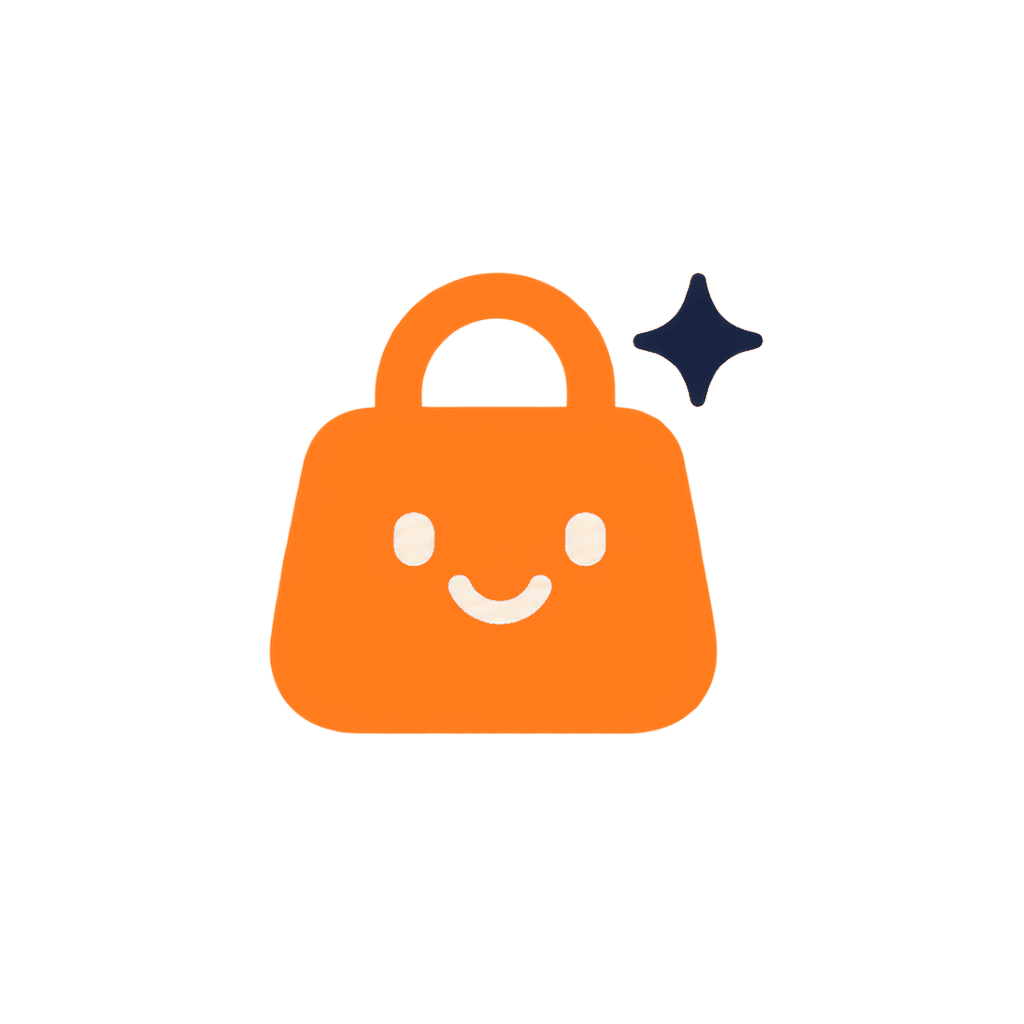
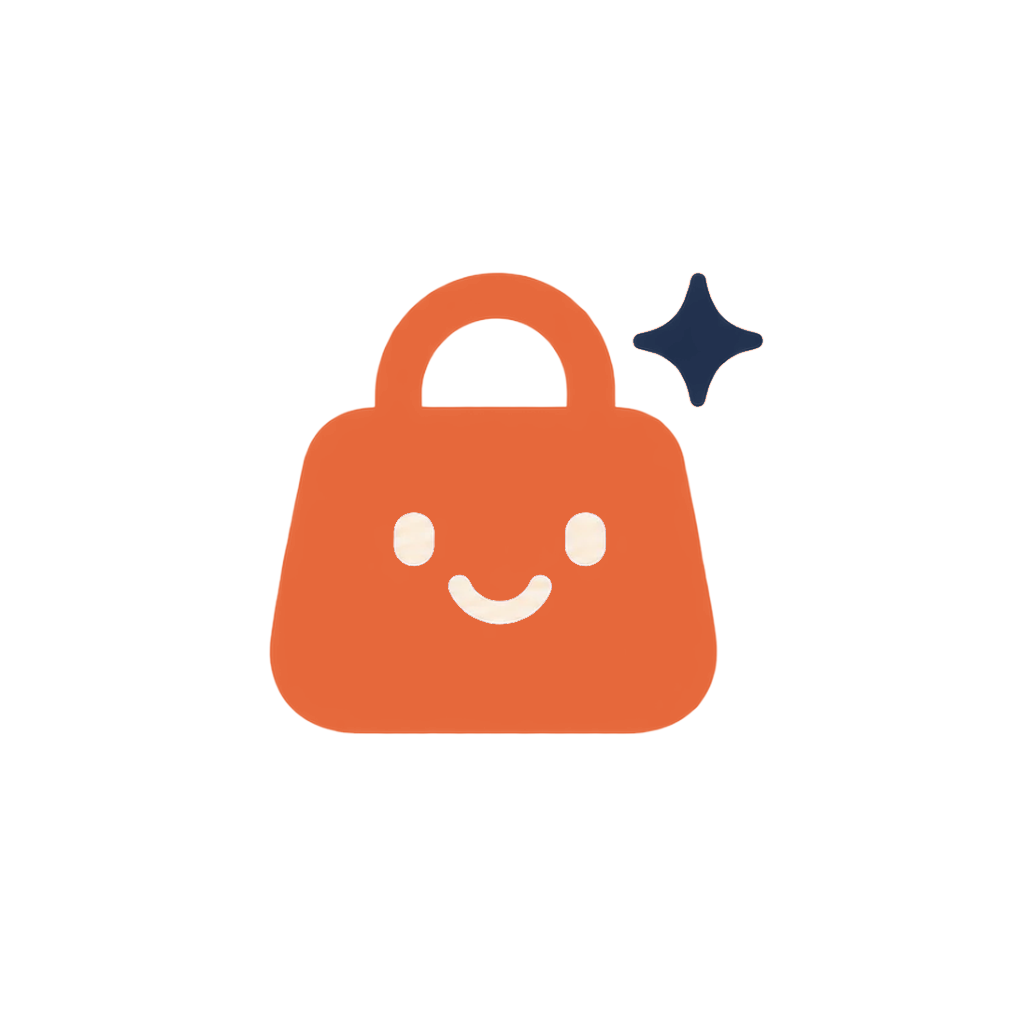
Sunset & Sage palette: terracotta, deep indigo, sage, blush, warm cream
- Buy actions in deep terracotta #BF4F26 with white text (4.8:1); brand terracotta #E66739 for logo/icons
- Deep indigo #1E2E4B text; sage #8AA382 secondary buttons with indigo text (4.9:1); blush panels; cream bg
- Logo, wordmark and app icons recoloured to match

Claude-Session: https://claude.ai/code/session_012wqzAwzB3todXZcczmyirL

Changed region(s): [[0.25, 0.25, 0.7188, 0.7188]]

diff --git a/marketplace-app/src/lib/theme.ts b/marketplace-app/src/lib/theme.ts
@@ -1,37 +1,38 @@
-// Colour system (colour theory, contrast-checked to WCAG AA):
-// - ORANGE is the Shelby brand and the buy colour. Orange reads as energy, warmth and value (the
-//   family of Amazon, Fanta, JBL), and it is the colour shoppers already associate with "buy".
-//   It is used ONLY for the logo and buying actions (Add to cart, Checkout, Pay, Shop now), so the
-//   isolation effect still makes the button the one thing the eye finds. Ink on orange is 6.1:1.
-// - NAVY ink is orange's complement (blue-orange): text, headers, navigation and primary buttons.
-//   Complementary contrast is what makes the orange pop; white on navy is 15.9:1.
-// - Burnt orange is the quiet text highlight (links, selection, progress): 5.2:1 on the background,
-//   where bright orange text would fail (2.6:1).
+// Colour system: "Sunset & Sage" (contrast-checked to WCAG AA).
+// - TERRACOTTA (#E66739) is the brand: logo, icons, badges. Buying actions use a deeper terracotta
+//   (#BF4F26) so white button text passes AA (4.8:1; white on #E66739 is only 3.3:1). Warm orange-red
+//   reads as energy and appetite, and it is used for buying only, so the button is what the eye finds.
+// - DEEP INDIGO (#1E2E4B) is terracotta's complement (blue vs orange): text, headers, primary buttons.
+//   Indigo on cream is 12.7:1.
+// - SAGE (#8AA382) is the calm counterweight (green opposite red on the wheel): secondary actions
+//   (indigo text on sage, 4.9:1) and trust cues (deep sage text #4D6B46, 5.6:1).
+// - SOFT BLUSH (#F6E3E0) for highlighted panels; WARM CREAM (#FAF7F2) background keeps photos the most
+//   saturated thing on screen.
 // - Red only means a real saving or a problem (sale prices, low stock, errors, count badges).
-// - Green only means trust: in stock, free shipping, returns, guarantees, success.
-// - Warm off-white background keeps product photos the most saturated thing on screen.
 export const C = {
-  bg: '#FFF8F1',
+  bg: '#FAF7F2', // warm cream
   surface: '#FFFFFF',
-  ink: '#16213E', // navy: orange's complement
-  ink2: '#4B5270',
-  ink3: '#666C86',
-  line: '#F1E4D6',
-  photo: '#F7EEE5', // product photo backdrop
-  accent: '#B04A00', // burnt orange: links, selection, progress, icons
-  accentSoft: '#FFEEDF',
-  buy: '#FF7A1A', // brand orange, buying actions only
-  buyPressed: '#F26A05',
-  buyInk: '#16213E',
-  buySoft: '#FFF0E2',
+  ink: '#1E2E4B', // deep indigo
+  ink2: '#4A5670',
+  ink3: '#646D85',
+  line: '#EDE6DC',
+  photo: '#F3EEE7', // product photo backdrop
+  accent: '#B34A22', // terracotta text: links, selection, progress, icons (5.0:1 on cream)
+  accentSoft: '#F6E3E0', // soft blush
+  buy: '#BF4F26', // deep terracotta: buying actions only
+  buyPressed: '#A8431F',
+  buyInk: '#FFFFFF',
+  buySoft: '#FBE9E2',
+  brand: '#E66739', // terracotta: logo, icons, badges (not text)
+  sage: '#8AA382', // secondary actions, with indigo text
   sale: '#C8102E', // real discounts, low stock, errors, badges
   saleSoft: '#FDE8EA',
-  good: '#157A4A',
-  goodSoft: '#E7F4EC',
+  good: '#4D6B46', // deep sage: in stock, returns, guarantees, success
+  goodSoft: '#E8EFE5',
   warn: '#8A5A00',
   warnSoft: '#FFF3D1',
-  spark: '#FF7A1A', // logo and mascot accents
-  dark: '#16213E',
+  spark: '#E66739', // logo and mascot accents
+  dark: '#1E2E4B',
 };
 
 export const R = { sm: 8, md: 14, lg: 20, pill: 999 };

diff --git a/marketplace-app/src/app/(tabs)/index.tsx b/marketplace-app/src/app/(tabs)/index.tsx
@@ -73,7 +73,7 @@ export default function Home() {
         ) : showQuiz && (
           <Pressable onPress={() => { track('quiz_entry_tap', { from: 'home' }); router.push({ pathname: '/quiz', params: { from: 'home' } }); }} accessibilityRole="button"
             style={{ margin: S.lg, marginBottom: 0, padding: S.lg, borderRadius: R.lg, backgroundColor: C.ink, flexDirection: 'row', alignItems: 'center', gap: 12 }}>
-            <Ionicons name="sparkles" size={24} color={C.buy} />
+            <Ionicons name="sparkles" size={24} color="#F2A584" />
             <View style={{ flex: 1 }}>
               <Text style={{ color: '#fff', fontWeight: '800', fontSize: 16 }}>Find your match in 30 seconds</Text>
               <Text style={{ color: '#D9DEEA', marginTop: 2 }}>3 quick questions, then picks for your skin, goals or size.</Text>
@@ -96,7 +96,7 @@ export default function Home() {
             const img = products.find(p => p.category === c && p.stock > 0)?.image;
             return (
               <Pressable key={c} onPress={() => { track('home_category', { category: c }); router.push({ pathname: '/search', params: { cat: c } }); }} style={{ alignItems: 'center', width: 70 }} accessibilityRole="button" accessibilityLabel={`Shop ${c}`}>
-                <View style={{ padding: 2.5, borderRadius: 40, borderWidth: 2.5, borderColor: C.buy }}>
+                <View style={{ padding: 2.5, borderRadius: 40, borderWidth: 2.5, borderColor: C.brand }}>
                   <Image source={{ uri: img }} style={{ width: 58, height: 58, borderRadius: 29, backgroundColor: C.photo }} />
                 </View>
                 <Text numberOfLines={1} style={{ fontSize: 11, marginTop: 6, color: C.ink2, fontWeight: '600' }}>{c}</Text>

diff --git a/marketplace-app/src/app/match/[icp].tsx b/marketplace-app/src/app/match/[icp].tsx
@@ -39,7 +39,7 @@ export default function Match() {
       <Header back title="Your match" />
       <ScrollView contentContainerStyle={{ paddingBottom: 40 }}>
         <View style={{ margin: S.lg, padding: S.lg, borderRadius: R.lg, backgroundColor: C.ink }}>
-          <Text style={[T.tiny, { color: C.buy }]}>YOUR MATCH</Text>
+          <Text style={[T.tiny, { color: '#F2A584' }]}>YOUR MATCH</Text>
           <Text style={{ color: '#fff', fontSize: 28, fontWeight: '900', marginTop: 6 }}>{info.title}</Text>
           <Text style={{ color: '#D9DEEA', marginTop: 6, fontSize: 15, lineHeight: 21 }}>{info.line} Here's what fits, best match first.</Text>
         </View>
@@ -47,7 +47,7 @@ export default function Match() {
           <View style={{ marginHorizontal: S.lg, marginBottom: S.lg, padding: S.lg, borderRadius: R.lg, backgroundColor: C.surface, borderWidth: 1, borderColor: C.line, gap: 8 }}>
             <Text style={T.h3}>{p.area === 'skin' ? 'Your routine' : 'Your starter set'}</Text>
             <Text style={T.small}>{routine.map(x => x.title).join(' + ')}</Text>
-            <Button title={`Add all ${routine.length} · ${money(routine.reduce((n, x) => n + x.price, 0))}`} kind="buy" icon="bag-add"
+            <Button title={`Add all ${routine.length} · ${money(routine.reduce((n, x) => n + x.price, 0))}`} kind="sage" icon="bag-add"
               onPress={() => { routine.forEach((x, i) => add(x, null, 1, { toast: i === routine.length - 1 ? `Added ${routine.length} items` : false })); track('quiz_result_add', { icp: p.icp, items: routine.length }); }} />
           </View>
         )}

diff --git a/marketplace-app/src/components/ui.tsx b/marketplace-app/src/components/ui.tsx
@@ -12,11 +12,11 @@ const tapped = (ui: string, label: string, fn?: () => void) => () => { haptic(ui
 export type IconName = React.ComponentProps<typeof Ionicons>['name'];
 
 export function Button({ title, onPress, kind = 'primary', icon, style, disabled, loading, testID }: {
-  title: string; onPress?: () => void; kind?: 'primary' | 'accent' | 'buy' | 'ghost' | 'light'; icon?: IconName;
+  title: string; onPress?: () => void; kind?: 'primary' | 'accent' | 'buy' | 'sage' | 'ghost' | 'light'; icon?: IconName;
   style?: StyleProp<ViewStyle>; disabled?: boolean; loading?: boolean; testID?: string;
 }) {
-  const bg = { primary: C.ink, accent: C.accent, buy: C.buy, ghost: 'transparent', light: C.surface }[kind];
-  const fg = kind === 'ghost' || kind === 'light' ? C.ink : kind === 'buy' ? C.buyInk : '#fff';
+  const bg = { primary: C.ink, accent: C.accent, buy: C.buy, sage: C.sage, ghost: 'transparent', light: C.surface }[kind];
+  const fg = kind === 'ghost' || kind === 'light' || kind === 'sage' ? C.ink : kind === 'buy' ? C.buyInk : '#fff';
   return (
     <Pressable testID={testID} accessibilityRole="button" accessibilityLabel={title} onPress={tapped('button', title, onPress)} disabled={disabled || loading}
       style={({ pressed }) => [styles.btn, { backgroundColor: bg, opacity: disabled ? 0.4 : pressed ? 0.85 : 1, transform: [{ scale: pressed ? 0.98 : 1 }] },
